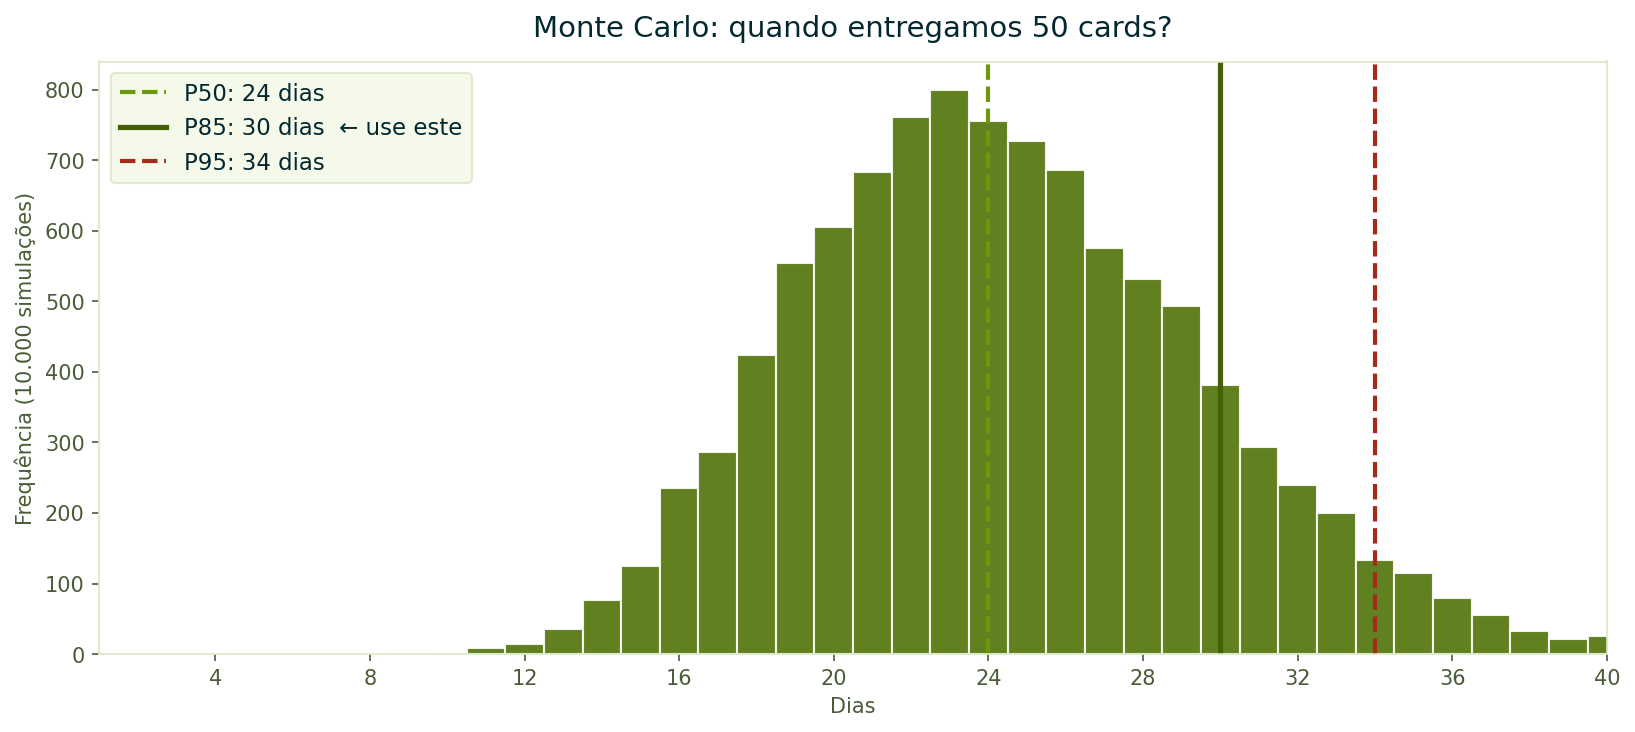
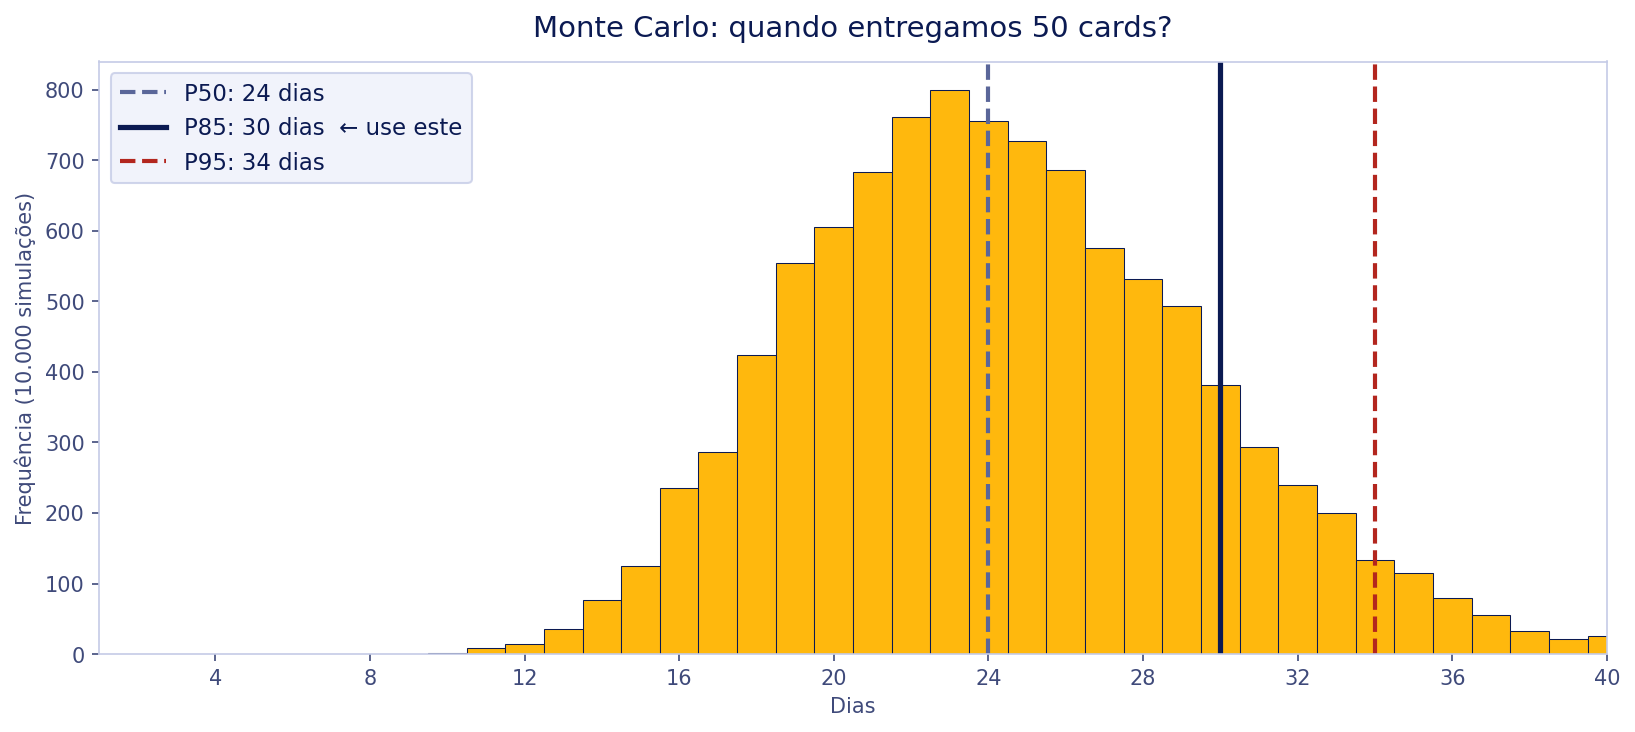
feat(charts): repaint the SLE and Monte Carlo charts in Python Floripa colors
Navy for lines and text, orange only as fill with a navy outline, since it measures 1.8:1 on white.

diff --git a/generate_charts.py b/generate_charts.py
@@ -19,23 +19,21 @@ OUTPUT_DIR = Path("slides/public")
 OUTPUT_DIR.mkdir(parents=True, exist_ok=True)
 DATA_FILE = Path("data/lead_time_data_clean_2026.csv")
 
-# Paleta Python Nordeste 2026, tirada de slides/public/pyne-logo.svg.
+# Paleta Python Floripa: azul-marinho e laranja, as cores de slides/brands/python-floripa.
 #
-# As series nao se separam por luminancia: num fundo branco toda serie precisa
-# de pelo menos 3:1 contra o branco, o que limita a luminancia a ~0.28, e nessa
-# faixa nao cabem tres series com 3:1 entre elas. Quem separa as series aqui e
-# o linestyle ("--", ":", "-"), ja usado nos percentis. Cada cor abaixo e
-# escolhida para ser visivel contra o branco, nao contra as outras.
+# O laranja #ffb80d mede 1.8:1 no branco, entao entra so como preenchimento
+# (barras e pontos), sempre com contorno azul-marinho. Linhas e texto usam os
+# azuis, e o linestyle ("--", ":", "-") separa os percentis.
 BG = "#ffffff"
-BG2 = "#f2f8e4"  # tint verde claro, igual a faixa do cabecalho de tabela
-SURFACE = "#f2f8e4"  # tint verde claro
-TEXT = "#032830"  # near-black, igual ao corpo de texto dos slides
-TEXT_MUTED = "#4a5c36"  # verde acinzentado, 6.4:1 no branco
-GRID = "#dbe6c4"  # verde claro
-GREEN = "#6b990a"  # escala verde g-300, 3.30:1
-RED = "#a62a1b"  # PyNE red, 7.07:1, usado so no P95
-MAIN = "#436006"  # escala verde g-600, 6.74:1, mesmo tom dos h1
-MC_BAR = "#507307"  # escala verde g-500, 5.18:1
+BG2 = "#eef1fb"  # --card da marca
+SURFACE = "#eef1fb"
+TEXT = "#0b1a52"  # --text da marca, azul-marinho
+TEXT_MUTED = "#3f4a7a"  # --muted da marca
+GRID = "#c5cbe6"  # --card-line da marca
+GREEN = "#5a6699"  # P50, azul acinzentado
+RED = "#b3261e"  # usado so no P95
+MAIN = "#0b1a52"  # P85, azul-marinho
+MC_BAR = "#ffb80d"  # laranja da marca, so como preenchimento
 
 
 def load_data(clean_cycle_time: bool = True) -> pd.DataFrame:
@@ -922,7 +920,9 @@ def fig_cycle_time_scatterplot(df: pd.DataFrame) -> None:
     fig, ax = plt.subplots(figsize=(13, 5), facecolor=plot_bg)
     ax.set_facecolor(plot_bg)
 
-    ax.scatter(dates, ct, color=point, alpha=0.45, s=20, zorder=3)
+    ax.scatter(
+        dates, ct, color=point, edgecolors=MAIN, linewidths=0.4, alpha=0.85, s=24, zorder=3
+    )
 
     for pct, color, label in [
         (0.50, GREEN, f"P50: {ct.quantile(0.50):.0f} dias"),
@@ -1017,7 +1017,7 @@ def fig_monte_carlo(
     ax.set_facecolor(BG)
 
     bins = range(int(simulacao.min()), int(simulacao.max()) + 2)
-    ax.hist(simulacao, bins=bins, color=MC_BAR, edgecolor=BG, alpha=0.9, align="left")
+    ax.hist(simulacao, bins=bins, color=MC_BAR, edgecolor=MAIN, linewidth=0.5, align="left")
 
     ax.axvline(
         p50,
